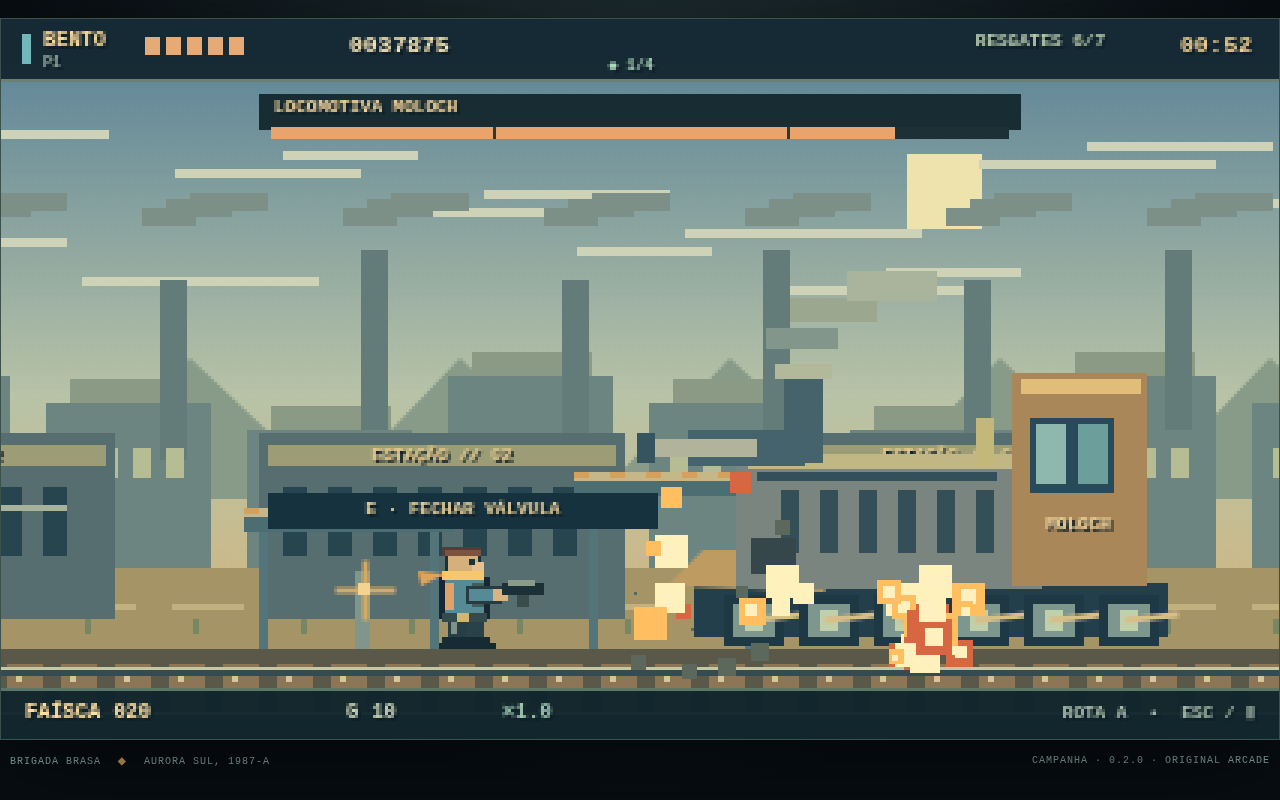
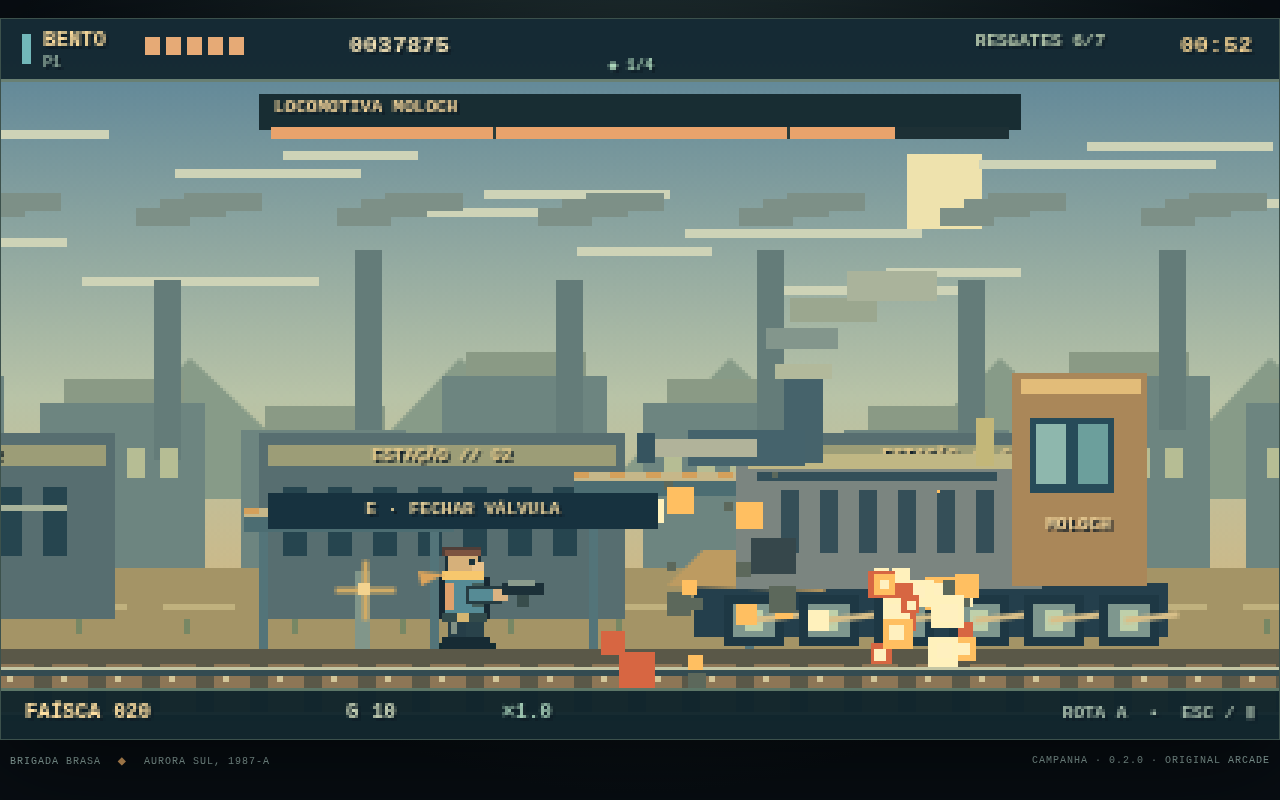
Registra QA publico de Trilho Partido e evidencias de deploy

diff --git a/docs/PUBLICACAO.md b/docs/PUBLICACAO.md
@@ -1,7 +1,26 @@
-# Publicação
+# Publicação — v0.2.0
 
-URL: https://luispauloalves500.github.io/brasa-de-aco/
-Repositório: https://github.com/luispauloalves500/brasa-de-aco
-Fonte: main, raiz, HTTPS.
+- Jogo: https://luispauloalves500.github.io/brasa-de-aco/
+- Repositório: https://github.com/luispauloalves500/brasa-de-aco
+- Fonte Pages: `main`, raiz, HTTPS. Push normal, sem força.
+- Verificação: 10/11/2026 17:46, America/Sao_Paulo (UTC-3).
+- Código da missão: `9bb73560ece9629e252fe02e1d90ec46ec15ba72`.
+- Código/bundle efetivamente verificado na URL: `9cb715aab476c60d7f39d311595949d7481555b2`. Commits posteriores de evidência não alteram a lógica do jogo.
 
-v0.2.0: aguardando a verificação pós-deploy desta revisão. Evidência histórica da primeira publicação foi preservada em archive/PUBLICACAO-v0.1.md. Este documento será atualizado após confirmar build, HTTP 200 e execução dos harnesses na URL pública.
+## Verificação remota real
+
+1. HTTPS **200** na raiz; HTML aponta para `game-v0.2.0.js`.
[1 lines of base64/hex data omitted]
+3. [Static game checks](https://github.com/luispauloalves500/brasa-de-aco/actions/runs/42898329456) e [Pages build/deployment](https://github.com/luispauloalves500/brasa-de-aco/actions/runs/42898328832) concluídos com sucesso para o bundle.
+4. **Dez cenários Chromium headless executados diretamente na URL pública**, não só em localhost: cinco M1 + cinco M2; zero erros runtime/rejeições/HTTP detectados pelos harnesses.
+5. M2: desbloqueio após vitória real por bot em M1, próxima missão, briefing, seleção, PT/EN, vila, telhados, Mula/Baldo, Moloch, vitória, epílogo, persistência do regulador e Continue. As duas rotas de M1 e M2 também chegam à vitória nos **47 testes Node**, com comandos normais de jogador.
+
+Evidências: [M2 publicado](m2/QA-PUBLICADO.json), [regressão M1 publicada](m2/QA-PUBLICADO-M1.json), [testes de lógica](m2/QA-LOGIC.txt), capturas reais em `docs/m2/` e `/workspace/brasa-shots/m2/published/`.
+
+## Cache e reprodução
+
+O bundle único é local e já está commitado; esbuild é apenas ferramenta de desenvolvimento. Não há dependência de CDN em runtime nem servidor de build necessário para jogar. O nome versionado evita combinar módulos de releases diferentes no cache. Uma aba antiga pode precisar de **Ctrl+F5**.
+
+## Limites
+
+Duas missões compactas, solo. Não se afirma duração humana de 5–7 minutos, coop, missões 3–8, Final B concluído, compatibilidade física de gamepads, áudio/mix ouvido em hardware ou FPS/P99 certificados. O trem usa referencial relativo com cenário em movimento. Engenharia registra o primeiro de quatro requisitos futuros, não libera um final ainda inexistente. A evidência histórica inicial fica em `archive/PUBLICACAO-v0.1.md`.

diff --git a/docs/QA.md b/docs/QA.md
@@ -5,9 +5,9 @@
 ## Executado
 - **47 testes Node aprovados.** Incluem as 30 verificações anteriores, duas execuções M1, duas execuções M2 e testes de engenharia/ordem das ações/score, save/continue, migração de progresso, minas, válvulas, passarela móvel, paraquedistas, fases/canhões/colapso de Moloch, desembarque da Mula e prevenção de ataques fora da câmera.
 - Bots M2 usam apenas comandos de jogador: não teleportam, não alteram HP, não chamam dano artificial. Conservam foguetes e reagem a projéteis/avisos. Ambas as rotas chegaram à vitória; rota A também recuperou o regulador. Recruta, Bento, escudo assistido: cenário de teste, não certificação de todas as dificuldades.
-- **Dez cenários Chromium headless em localhost:** cinco de regressão M1, cinco de M2. Nos cinco M2, um bot primeiro conclui M1 normalmente, verifica desbloqueio, segue Próxima → briefing ilustrado → jogo M2 e testa seleção de capítulos/idiomas. Há capturas de vila, telhados, Mula/Baldo e Moloch. O cenário final completa M2, verifica epílogo ilustrado, registra engenharia e reabre Continue com missão/flags corretas.
+- **Dez cenários Chromium headless em localhost e repetidos na URL pública:** cinco de regressão M1, cinco de M2. Nos cinco M2, um bot primeiro conclui M1 normalmente, verifica desbloqueio, segue Próxima → briefing ilustrado → jogo M2 e testa seleção de capítulos/idiomas. Há capturas de vila, telhados, Mula/Baldo e Moloch. O cenário final completa M2, verifica epílogo ilustrado, registra engenharia e reabre Continue com missão/flags corretas.
 - Sem erros runtime/rejeições/HTTP detectados pelos harnesses após o boot; boot/API/menu são também verificados. Capturas do Canvas foram inspecionadas para legibilidade. Prompts de válvula foram reposicionados para não cobrir personagens.
-- Publicação: evidência específica em PUBLICACAO.md e arquivos QA-PUBLICADO*.json após a verificação remota.
+- Publicação: evidência específica em PUBLICACAO.md e arquivos `m2/QA-PUBLICADO*.json`, com os dez cenários aprovados também após o deploy.
 
 ## Evidências
 - `m2/QA-LOGIC.txt`, `m2/QA-BROWSER.json` e `m2/QA-M1-REGRESSION.json`.

diff --git a/docs/RELEASE_NOTES.md b/docs/RELEASE_NOTES.md
@@ -6,7 +6,8 @@
 - Briefing/epílogo ilustrados, PT-BR/EN e três cues musicais originais.
 - Seleção/desbloqueio de missões, encadeamento M1→M2, save compatível e regulador de engenharia persistente.
 - Correções: inimigos fora da câmera não atiram; replay não herda timer de vitória.
-- 47 testes e dez cenários Chromium em localhost. QA de publicação registrado separadamente.
+- 47 testes e dez cenários Chromium em localhost e na URL pública. QA de publicação registrado separadamente.
+- Bundle estático versionado e commitado, sem CDN, evitando mistura de módulos no cache. CI verifica que o bundle corresponde às fontes.
 - Missões 3–8, coop, finais completos e certificação de hardware seguem fora.
 
 ---
